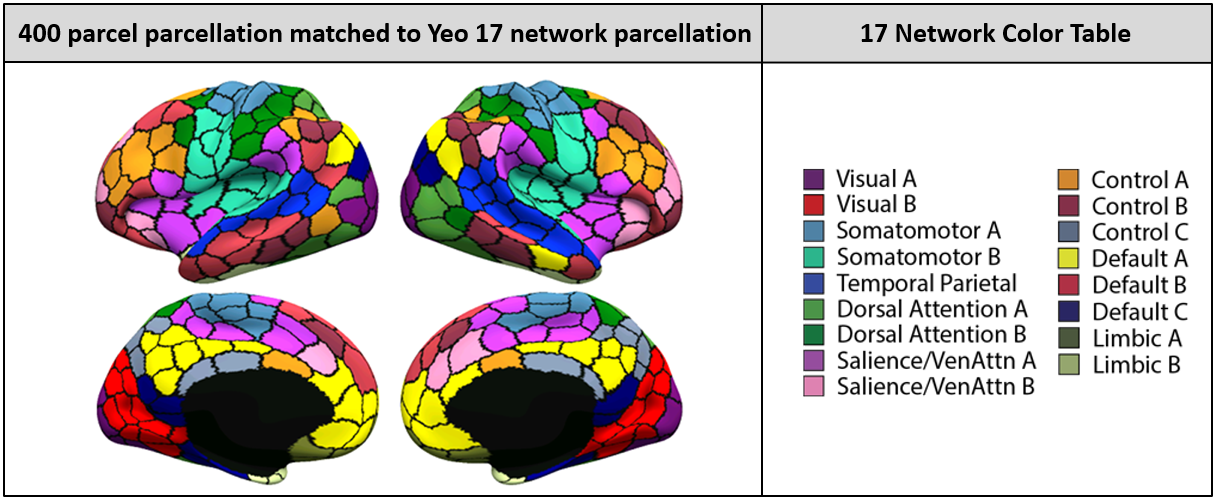
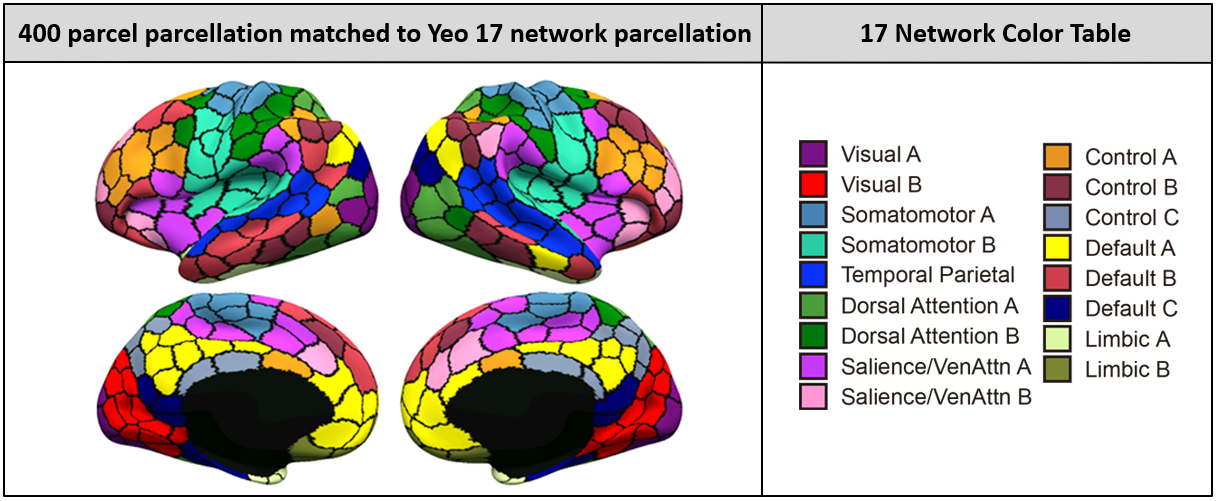
v0.19.2-Yeo2011_Schaefer2018
Why:

Update Yeo2011 and Schaefer2018 Parcellations

For Yeo2011:
1. Add two tables that matches network order to network names for both the Yeo 7/17 network.

For Schaefer2018:
1. Fix the mistakenly switched figure legend (Limbic A and Limbic B) in the 17 Network Color Table.

This change addresses the need by:

* all

Changed region(s): [[0.6557, 0.2695, 0.9992, 0.8383]]

diff --git a/stable_projects/brain_parcellation/Schaefer2018_LocalGlobal/README.md b/stable_projects/brain_parcellation/Schaefer2018_LocalGlobal/README.md
@@ -24,6 +24,8 @@ Parcellations Release
 
   + Parcel names were obtained by matching with the components in [Yeo2011 split components](https://github.com/ThomasYeoLab/CBIG/tree/master/stable_projects/brain_parcellation/Yeo2011_fcMRI_clustering/1000subjects_reference/Yeo_JNeurophysiol11_SplitLabels). The abbreviations of parcel names can be found here: [7 networks](https://github.com/ThomasYeoLab/CBIG/blob/master/stable_projects/brain_parcellation/Yeo2011_fcMRI_clustering/1000subjects_reference/Yeo_JNeurophysiol11_SplitLabels/Yeo2011_7networks_N1000.split_components.glossary.csv), [17 networks](https://github.com/ThomasYeoLab/CBIG/blob/master/stable_projects/brain_parcellation/Yeo2011_fcMRI_clustering/1000subjects_reference/Yeo_JNeurophysiol11_SplitLabels/Yeo2011_17networks_N1000.split_components.glossary.csv).
 
+  + **Important note**: the color legends of networks ```Limbic A (TempPole)``` and ```Limbic B (OFC)``` for the 17 network figure was mistakenly switched when this figure was first created (it has been corrected since 23/03/2021). This error should not affect any downstream analysis using our parcellation, since the network names are only wrongly labelled in the figure below but are **correctly** labeled in our released parcellation files (i.e. cifti files, MNI nii.gz files and annot files). If you come across mislabeled figures in any papers, please kindly write to us, and we will help them double check if any of the downstream analysis was affected.
+  
   + Here we provide a visualization of the 400 parcel parcellation in ```fslr32k``` space, parcels were colored to match Yeo 7/17 network parcellation:
 
 <p align="center">
@@ -59,14 +61,14 @@ Except for this project, if you want to use the code for other stable projects f
 
 To download the version of the code that is last tested, you can either
 
-- visit this link: [https://github.com/ThomasYeoLab/CBIG/releases/tag/v0.18.1-Update_stable_project_unit_test](https://github.com/ThomasYeoLab/CBIG/releases/tag/v0.18.1-Update_stable_project_unit_test)
+- visit this link: [https://github.com/ThomasYeoLab/CBIG/releases/tag/v0.19.2-Yeo2011_Schaefer2018](https://github.com/ThomasYeoLab/CBIG/releases/tag/v0.19.2-Yeo2011_Schaefer2018)
 
 or
 
 - run the following command, if you have Git installed
 
 ```
-git checkout -b Schaefer2018_LocalGlobal v0.18.1-Update_stable_project_unit_test
+git checkout -b Schaefer2018_LocalGlobal v0.19.2-Yeo2011_Schaefer2018
 ```
 
 ---
@@ -141,6 +143,9 @@ Updates
     1. Update unit test to accommodate to the new HPC.
 
     2. Fix a minor bug in `CBIG_gwMRF_set_prams.m`
+
+- Release v0.19.2 (23/03/2021): Fix the mistakenly switched figure legend (Limbic A and Limbic B) in the 17 Network Color Table.
+
 ---
 
 Bugs and Questions

diff --git a/stable_projects/brain_parcellation/Yeo2011_fcMRI_clustering/README.md b/stable_projects/brain_parcellation/Yeo2011_fcMRI_clustering/README.md
@@ -25,6 +25,8 @@ Specifically, the parcellations include:
 
 
     <img src="readme_figures/Yeo2011_network_parcellation_fs5.png" height="300" />
+    
+    You can find the names of the ordered 7/17 networks here: `1000subjects_reference/<7/17>NetworksOrderedNames.csv`.
 
 - **Yeo_JNeurophysiol11_SplitLabels**
 The original networks in 7/17 network brain parcellations were spatially distributed, so in this version we further splitted them into spatially connected components. For example, 51 components were obtained from the original 7 network parcellation and 114 components were obtained from the original 17 network parcellation. For more information, please check the `README.md` file under `Yeo_JNeurophysiol11_SplitLabels` folder.
@@ -52,14 +54,14 @@ There is a simple example in `examples` folder. Check how to run the example cod
 
 Note that this project uses generic functions from other folders, which may be updated over time. To download the version of the code that was last tested, you can either
 
-- visit this link: [https://github.com/ThomasYeoLab/CBIG/releases/tag/v0.18.1-Update_stable_project_unit_test](https://github.com/ThomasYeoLab/CBIG/releases/tag/v0.18.1-Update_stable_project_unit_test)
+- visit this link: [https://github.com/ThomasYeoLab/CBIG/releases/tag/v0.19.2-Yeo2011_Schaefer2018](https://github.com/ThomasYeoLab/CBIG/releases/tag/v0.19.2-Yeo2011_Schaefer2018)
 
 or
 
 - run the following command, if you have Git installed
  
 ```
-git checkout -b Yeo2011_fcMRI_clustering v0.18.1-Update_stable_project_unit_test
+git checkout -b Yeo2011_fcMRI_clustering v0.19.2-Yeo2011_Schaefer2018
 ```
 
 ----
@@ -109,6 +111,8 @@ git checkout -b Yeo2011_fcMRI_clustering v0.18.1-Update_stable_project_unit_test
     1. Update unit test to accommodate to the new HPC.
 
     2. Turned off "silhouette" option in the wrapper file `CBIG_Yeo2011_cluster_fcMRI_surf2surf_profiles.csh`.
+
+- Release v0.19.2 (23/03/2021): Add two tables that matches network order to network names for both the Yeo 7/17 network.
 
 ----
 
